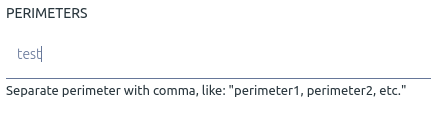
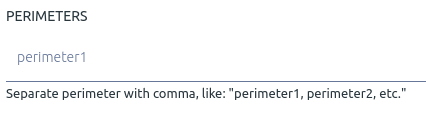
publish: Merge pull request #10 from adback-anti-adblock-solution/patch-victor-10
generated from commit 0041046b2757b99a261cec2f2a4e342b2754604b

Changed region(s): [[0.0, 0.6903, 1.0, 0.8761], [0.0, 0.0531, 0.2136, 0.1858], [0.0305, 0.3982, 0.2136, 0.5575]]

diff --git a/index.html b/index.html
@@ -294,11 +294,11 @@
 <span class="kn">import</span> <span class="nn">requests</span>
 
 <span class="s">'''here we use redis to cache api requests'''</span>
-<span class="n">r_server</span> <span class="o">=</span> <span class="n">redis</span><span class="o">.</span><span class="n">Redis</span><span class="p">(</span><span class="s">'host'</span><span class="p">)</span>
+<span class="n">r_server</span> <span class="o">=</span> <span class="n">redis</span><span class="o">.</span><span class="n">Redis</span><span class="p">(</span><span class="s">'host'</span><span class="p">,</span> <span class="s">'port'</span><span class="p">)</span>
 <span class="n">script_elements</span> <span class="o">=</span> <span class="n">requests</span><span class="o">.</span><span class="n">get</span><span class="p">(</span><span class="s">'https://adback.co/api/script/me?access_token=[token]'</span><span class="p">)</span><span class="o">.</span><span class="n">json</span><span class="p">()</span>
 <span class="k">for</span> <span class="p">(</span><span class="n">key</span><span class="p">,</span> <span class="n">value</span><span class="p">)</span> <span class="ow">in</span> <span class="n">script_elements</span><span class="o">.</span><span class="n">items</span><span class="p">():</span>
-    <span class="n">r_server</span><span class="o">.</span><span class="nb">set</span><span class="p">(</span><span class="s">'script_element'</span><span class="p">,</span> <span class="n">key</span><span class="p">,</span> <span class="n">value</span><span class="p">)</span>
-<span class="n">r_server</span><span class="o">.</span><span class="n">expire</span><span class="p">(</span><span class="s">'scriptElement'</span><span class="p">,</span> <span class="mi">60</span> <span class="o">*</span> <span class="mi">60</span> <span class="o">*</span> <span class="mi">6</span><span class="p">)</span>
+    <span class="n">r_server</span><span class="o">.</span><span class="n">hset</span><span class="p">(</span><span class="s">'script_element'</span><span class="p">,</span> <span class="n">key</span><span class="p">,</span> <span class="n">value</span><span class="o">.</span><span class="n">encode</span><span class="p">(</span><span class="s">"utf8"</span><span class="p">))</span>
+<span class="n">r_server</span><span class="o">.</span><span class="n">expire</span><span class="p">(</span><span class="s">'script_element'</span><span class="p">,</span> <span class="mi">60</span> <span class="o">*</span> <span class="mi">60</span> <span class="o">*</span> <span class="mi">6</span><span class="p">)</span>
 </code></pre><pre class="highlight java tab-java"><code>
 </code></pre><pre class="highlight ruby tab-ruby"><code><span class="nb">require</span> <span class="s2">"redis"</span>
 <span class="nb">require</span> <span class="s2">"json"</span>
@@ -375,7 +375,7 @@ If API doesn't return all script names or URL, please check your configuration <
 <span class="cp">&lt;?php</span>
 <span class="cm">/* here we use redis to cache api requests */</span>
 <span class="nv">$cache</span> <span class="o">=</span> <span class="k">new</span> <span class="nx">Redis</span><span class="p">();</span>
-<span class="nv">$cache</span><span class="o">-&gt;</span><span class="na">connect</span><span class="p">(</span><span class="s1">'host'</span><span class="p">);</span>
+<span class="nv">$cache</span><span class="o">-&gt;</span><span class="na">connect</span><span class="p">(</span><span class="s1">'host'</span><span class="p">,</span> <span class="s1">'port'</span><span class="p">);</span>
 
 <span class="nv">$analyticsScriptCode</span> <span class="o">=</span> <span class="s1">''</span><span class="p">;</span>
 <span class="k">if</span> <span class="p">(</span><span class="nv">$cache</span><span class="o">-&gt;</span><span class="na">has</span><span class="p">(</span><span class="s1">'scriptElement'</span><span class="p">))</span> <span class="p">{</span>
@@ -398,7 +398,7 @@ EOS;
 <span class="kn">import</span> <span class="nn">requests</span>
 
 <span class="s">'''here we use redis to cache api requests'''</span>
-<span class="n">r_server</span> <span class="o">=</span> <span class="n">redis</span><span class="o">.</span><span class="n">Redis</span><span class="p">(</span><span class="s">'host'</span><span class="p">)</span>
+<span class="n">r_server</span> <span class="o">=</span> <span class="n">redis</span><span class="o">.</span><span class="n">Redis</span><span class="p">(</span><span class="s">'host'</span><span class="p">,</span> <span class="s">'port'</span><span class="p">)</span>
 <span class="n">analytics_script_code</span> <span class="o">=</span> <span class="s">''</span>
 <span class="k">if</span> <span class="n">r_server</span><span class="o">.</span><span class="n">exists</span><span class="p">(</span><span class="s">'script_element'</span><span class="p">):</span>
     <span class="n">script_elements</span> <span class="o">=</span> <span class="n">r_server</span><span class="o">.</span><span class="n">hgetall</span><span class="p">(</span><span class="s">'script_element'</span><span class="p">)</span>
@@ -410,11 +410,11 @@ EOS;
     s.src=a;s.async=1;
     t=d.getElementsByTagName('script')[0];
     t.parentNode.insertBefore(s,t);
-    })(</span><span class="se">\"</span><span class="s">https://${analytics_domain}/${analytics_script}.js</span><span class="se">\"</span><span class="s">, document);
-    """</span>
+    })(</span><span class="se">\"</span><span class="s">https://</span><span class="si">%</span><span class="s">s/</span><span class="si">%</span><span class="s">s.js</span><span class="se">\"</span><span class="s">, document);
+    """</span> <span class="o">%</span> <span class="p">(</span><span class="n">analytics_domain</span><span class="p">,</span> <span class="n">analytics_script</span><span class="p">)</span>
 
-<span class="c"># display tag</span>
-<span class="k">print</span> <span class="s">"&lt;script&gt;${analytics_script_code}&lt;/script&gt;"</span>
+<span class="s">''' display tag '''</span>
+<span class="k">print</span> <span class="s">"&lt;script&gt;</span><span class="si">%</span><span class="s">s&lt;/script&gt;"</span> <span class="o">%</span> <span class="n">analytics_script_code</span>
 </code></pre><pre class="highlight java tab-java"><code></code></pre><pre class="highlight ruby tab-ruby"><code><span class="nb">require</span> <span class="s2">"redis"</span>
 <span class="nb">require</span> <span class="s2">"json"</span>
 <span class="nb">require</span> <span class="s1">'open-uri'</span>
@@ -438,7 +438,7 @@ EOS;
 
 <span class="c1"># display tag</span>
 <span class="nb">puts</span> <span class="s2">"&lt;script&gt;</span><span class="si">#{</span><span class="n">analytics_script_code</span><span class="si">}</span><span class="s2">&lt;/script&gt;"</span>
-</code></pre><pre class="highlight shell tab-shell"><code><span class="c"># bash script to api consumption</span>
+</code></pre><pre class="highlight shell tab-shell"><code><span class="c"># bash script to test api consumption</span>
 <span class="gp">$ </span>wget https://raw.githubusercontent.com/adback-anti-adblock-solution/adback-bash-refresh/master/adback-refresh-tags
 
 <span class="gp">$ </span>chmod +x adback-refresh-tags
@@ -462,7 +462,7 @@ EOS;
 
 <span class="cm">/* here we use redis to cache api requests */</span>
 <span class="nv">$cache</span> <span class="o">=</span> <span class="k">new</span> <span class="nx">Redis</span><span class="p">();</span>
-<span class="nv">$cache</span><span class="o">-&gt;</span><span class="na">connect</span><span class="p">(</span><span class="s1">'host'</span><span class="p">);</span>
+<span class="nv">$cache</span><span class="o">-&gt;</span><span class="na">connect</span><span class="p">(</span><span class="s1">'host'</span><span class="p">,</span> <span class="s1">'port'</span><span class="p">);</span>
 
 <span class="nv">$messageCode</span> <span class="o">=</span> <span class="s1">''</span><span class="p">;</span>
 <span class="k">if</span> <span class="p">(</span><span class="nv">$cache</span><span class="o">-&gt;</span><span class="na">has</span><span class="p">(</span><span class="s1">'scriptElement'</span><span class="p">))</span> <span class="p">{</span>
@@ -484,34 +484,37 @@ EOS;
 <span class="k">echo</span> <span class="s2">"&lt;script&gt;</span><span class="nv">$messageCode</span><span class="s2">&lt;/script&gt;"</span><span class="p">;</span>
 
 <span class="cm">/* script you can set to display message on certain pages of your site */</span>
-<span class="k">echo</span> <span class="s2">"&lt;script&gt;var adback = adback || {}; adback.perimeter = 'test';&lt;/script&gt;"</span><span class="p">;</span>
+<span class="k">echo</span> <span class="s2">"&lt;script&gt;var adback = adback || {}; adback.perimeter = 'perimeter1';&lt;/script&gt;"</span><span class="p">;</span>
 </code></pre><pre class="highlight python tab-python"><code><span class="kn">import</span> <span class="nn">redis</span>
 <span class="kn">import</span> <span class="nn">requests</span>
 
 <span class="s">'''here we use redis to cache api requests'''</span>
-<span class="n">r_server</span> <span class="o">=</span> <span class="n">redis</span><span class="o">.</span><span class="n">Redis</span><span class="p">(</span><span class="s">'host'</span><span class="p">)</span>
-<span class="n">analytics_script_code</span> <span class="o">=</span> <span class="s">''</span>
+<span class="n">r_server</span> <span class="o">=</span> <span class="n">redis</span><span class="o">.</span><span class="n">Redis</span><span class="p">(</span><span class="s">'host'</span><span class="p">,</span> <span class="s">'port'</span><span class="p">)</span>
+<span class="n">message_code</span> <span class="o">=</span> <span class="s">''</span>
 <span class="k">if</span> <span class="n">r_server</span><span class="o">.</span><span class="n">exists</span><span class="p">(</span><span class="s">'script_element'</span><span class="p">):</span>
     <span class="n">script_elements</span> <span class="o">=</span> <span class="n">r_server</span><span class="o">.</span><span class="n">hgetall</span><span class="p">(</span><span class="s">'script_element'</span><span class="p">)</span>
-    <span class="n">message_domain</span> <span class="o">=</span> <span class="n">script_elements</span><span class="p">[</span><span class="s">'message_domain'</span><span class="p">];</span>
-    <span class="n">message_script</span> <span class="o">=</span> <span class="n">script_elements</span><span class="p">[</span><span class="s">'message_script'</span><span class="p">];</span>
+    <span class="n">message_domain</span> <span class="o">=</span> <span class="n">script_elements</span><span class="p">[</span><span class="s">'message_domain'</span><span class="p">]</span>
+    <span class="n">message_script</span> <span class="o">=</span> <span class="n">script_elements</span><span class="p">[</span><span class="s">'message_script'</span><span class="p">]</span>
 
     <span class="n">message_code</span> <span class="o">=</span> <span class="s">"""
     (function (a,d){var s,t;s=d.createElement('script');
     s.src=a;s.async=1;
     t=d.getElementsByTagName('script')[0];
     t.parentNode.insertBefore(s,t);
-    })(</span><span class="se">\"</span><span class="s">https://${message_domain}/${message_script}.js</span><span class="se">\"</span><span class="s">, document);
-    """</span>
+    })(</span><span class="se">\"</span><span class="s">https://</span><span class="si">%</span><span class="s">s/</span><span class="si">%</span><span class="s">s.js</span><span class="se">\"</span><span class="s">, document);
+    """</span> <span class="o">%</span> <span class="p">(</span><span class="n">message_domain</span><span class="p">,</span> <span class="n">message_script</span><span class="p">)</span>
 
-<span class="c"># display tag</span>
-<span class="k">print</span> <span class="s">"&lt;script&gt;${message_code}&lt;/script&gt;"</span>
+<span class="s">''' display tag '''</span>
+<span class="k">print</span> <span class="s">"&lt;script&gt;</span><span class="si">%</span><span class="s">s&lt;/script&gt;"</span> <span class="o">%</span> <span class="n">message_code</span>
+
+<span class="s">''' script you can set to display message on certain pages of your site '''</span>
+<span class="k">print</span> <span class="s">"&lt;script&gt;var adback = adback || {}; adback.perimeter = 'perimeter1';&lt;/script&gt;"</span>
 </code></pre><pre class="highlight java tab-java"><code></code></pre><pre class="highlight ruby tab-ruby"><code><span class="nb">require</span> <span class="s2">"redis"</span>
 <span class="nb">require</span> <span class="s2">"json"</span>
 <span class="nb">require</span> <span class="s1">'open-uri'</span>
 
 <span class="c1"># here we use redis to cache api requests</span>
-<span class="n">cache</span> <span class="o">=</span> <span class="no">Redis</span><span class="p">.</span><span class="nf">new</span><span class="p">(</span><span class="ss">:host</span> <span class="o">=&gt;</span> <span class="s2">"HOST"</span><span class="p">)</span>
+<span class="n">cache</span> <span class="o">=</span> <span class="no">Redis</span><span class="p">.</span><span class="nf">new</span><span class="p">(</span><span class="ss">:host</span> <span class="o">=&gt;</span> <span class="s1">'host'</span><span class="p">)</span>
 <span class="n">message_code</span> <span class="o">=</span> <span class="s1">''</span><span class="p">;</span>
 <span class="k">if</span> <span class="n">cache</span><span class="p">.</span><span class="nf">exists</span><span class="p">(</span><span class="s1">'script_element'</span><span class="p">)</span>
   <span class="n">script_elements</span> <span class="o">=</span> <span class="n">cache</span><span class="p">.</span><span class="nf">hgetall</span><span class="p">(</span><span class="s1">'script_element'</span><span class="p">);</span>
@@ -532,8 +535,8 @@ EOS;
 <span class="nb">puts</span> <span class="s2">"&lt;script&gt;</span><span class="si">#{</span><span class="n">message_code</span><span class="si">}</span><span class="s2">&lt;/script&gt;"</span>
 
 <span class="c1"># script you can set to display message on certain pages of your site</span>
-<span class="nb">puts</span> <span class="s2">"&lt;script&gt;var adback = adback || {}; adback.perimeter = 'test';&lt;/script&gt;"</span>
-</code></pre><pre class="highlight shell tab-shell"><code><span class="c"># bash script to api consumption</span>
+<span class="nb">puts</span> <span class="s2">"&lt;script&gt;var adback = adback || {}; adback.perimeter = 'perimeter1';&lt;/script&gt;"</span>
+</code></pre><pre class="highlight shell tab-shell"><code><span class="c"># bash script to test api consumption</span>
 <span class="gp">$ </span>wget https://raw.githubusercontent.com/adback-anti-adblock-solution/adback-bash-refresh/master/adback-refresh-tags
 
 <span class="gp">$ </span>chmod +x adback-refresh-tags
@@ -603,7 +606,7 @@ you can see a preview of all your messages and publish / unpublish it</aside>
 
 <span class="cm">/* here we use redis to cache api requests */</span>
 <span class="nv">$cache</span> <span class="o">=</span> <span class="k">new</span> <span class="nx">Redis</span><span class="p">();</span>
-<span class="nv">$cache</span><span class="o">-&gt;</span><span class="na">connect</span><span class="p">(</span><span class="s1">'host'</span><span class="p">);</span>
+<span class="nv">$cache</span><span class="o">-&gt;</span><span class="na">connect</span><span class="p">(</span><span class="s1">'host'</span><span class="p">,</span> <span class="s1">'port'</span><span class="p">);</span>
 
 <span class="nv">$autopromoBannerCode</span> <span class="o">=</span> <span class="s1">''</span><span class="p">;</span>
 <span class="k">if</span> <span class="p">(</span><span class="nv">$cache</span><span class="o">-&gt;</span><span class="na">has</span><span class="p">(</span><span class="s1">'scriptElement'</span><span class="p">))</span> <span class="p">{</span>
@@ -621,10 +624,10 @@ EOS;
 </span>    <span class="p">}</span>
 <span class="p">}</span>
 
-<span class="cm">/* add div where you want to display your banner header_728x90 */</span>
+<span class="cm">/* add div where you want to display your banner with placement 'header_728x90' */</span>
 <span class="k">echo</span> <span class="s2">"&lt;div data-tag='header_728x90'&gt;&lt;/div&gt;"</span><span class="p">;</span>
 
-<span class="cm">/* add div where you want to display your banner side_300x250_actu */</span>
+<span class="cm">/* add div where you want to display your banner with placement 'side_300x250_actu' */</span>
 <span class="k">echo</span> <span class="s2">"&lt;div data-tag='side_300x250_actu'&gt;&lt;/div&gt;"</span><span class="p">;</span>
 
 <span class="cm">/* display tag */</span>
@@ -633,28 +636,29 @@ EOS;
 <span class="kn">import</span> <span class="nn">requests</span>
 
 <span class="s">'''here we use redis to cache api requests'''</span>
-<span class="n">r_server</span> <span class="o">=</span> <span class="n">redis</span><span class="o">.</span><span class="n">Redis</span><span class="p">(</span><span class="s">'host'</span><span class="p">)</span>
+<span class="n">r_server</span> <span class="o">=</span> <span class="n">redis</span><span class="o">.</span><span class="n">Redis</span><span class="p">(</span><span class="s">'host'</span><span class="p">,</span> <span class="s">'port'</span><span class="p">)</span>
 <span class="n">autopromo_banner_code</span> <span class="o">=</span> <span class="s">''</span>
 <span class="k">if</span> <span class="n">r_server</span><span class="o">.</span><span class="n">exists</span><span class="p">(</span><span class="s">'script_element'</span><span class="p">):</span>
     <span class="n">script_elements</span> <span class="o">=</span> <span class="n">r_server</span><span class="o">.</span><span class="n">hgetall</span><span class="p">(</span><span class="s">'script_element'</span><span class="p">)</span>
-    <span class="n">autopromo_banner_domain</span> <span class="o">=</span> <span class="n">script_elements</span><span class="p">[</span><span class="s">'autopromo_banner_domain'</span><span class="p">];</span>
-    <span class="n">autopromo_banner_script</span> <span class="o">=</span> <span class="n">script_elements</span><span class="p">[</span><span class="s">'autopromo_banner_script'</span><span class="p">];</span>
+    <span class="n">autopromo_banner_domain</span> <span class="o">=</span> <span class="n">script_elements</span><span class="p">[</span><span class="s">'autopromo_banner_domain'</span><span class="p">]</span>
+    <span class="n">autopromo_banner_script</span> <span class="o">=</span> <span class="n">script_elements</span><span class="p">[</span><span class="s">'autopromo_banner_script'</span><span class="p">]</span>
+
     <span class="n">autopromo_banner_code</span> <span class="o">=</span> <span class="s">"""
     (function (a,d){var s,t;s=d.createElement('script');
     s.src=a;s.async=1;
     t=d.getElementsByTagName('script')[0];
     t.parentNode.insertBefore(s,t);
-    })(</span><span class="se">\"</span><span class="s">https://${autopromo_banner_domain}/${autopromo_banner_script}.js</span><span class="se">\"</span><span class="s">, document);
-    """</span>
+    })(</span><span class="se">\"</span><span class="s">https://</span><span class="si">%</span><span class="s">s/</span><span class="si">%</span><span class="s">s.js</span><span class="se">\"</span><span class="s">, document);
+    """</span> <span class="o">%</span> <span class="p">(</span><span class="n">autopromo_banner_domain</span><span class="p">,</span> <span class="n">autopromo_banner_script</span><span class="p">)</span>
 
-<span class="s">'''add div where you want to display your banner header_728x90'''</span>
+<span class="s">'''add div where you want to display your banner with placement 'header_728x90' '''</span>
 <span class="k">print</span> <span class="s">"&lt;div data-tag='header_728x90'&gt;&lt;/div&gt;"</span>
 
-<span class="s">'''add div where you want to display your banner side_300x250_actu'''</span>
+<span class="s">'''add div where you want to display your banner with placement 'side_300x250_actu' '''</span>
 <span class="k">print</span> <span class="s">"&lt;div data-tag='side_300x250_actu'&gt;&lt;/div&gt;"</span>
 
 <span class="s">'''display tag'''</span>
-<span class="k">print</span> <span class="s">"&lt;script&gt;${autopromo_banner_code}&lt;/script&gt;"</span>
+<span class="k">print</span> <span class="s">"&lt;script&gt;</span><span class="si">%</span><span class="s">s&lt;/script&gt;"</span> <span class="o">%</span> <span class="n">autopromo_banner_code</span>
 </code></pre><pre class="highlight java tab-java"><code></code></pre><pre class="highlight ruby tab-ruby"><code><span class="nb">require</span> <span class="s2">"redis"</span>
 <span class="nb">require</span> <span class="s2">"json"</span>
 <span class="nb">require</span> <span class="s1">'open-uri'</span>
@@ -677,25 +681,25 @@ EOS;
   <span class="k">end</span>
 <span class="k">end</span>
 
-<span class="c1"># add div where you want to display your banner header_728x90</span>
+<span class="c1"># add div where you want to display your banner with placement 'header_728x90'</span>
 <span class="nb">puts</span> <span class="s2">"&lt;div data-tag='header_728x90'&gt;&lt;/div&gt;"</span>
 
-<span class="c1"># add div where you want to display your banner side_300x250_actu</span>
+<span class="c1"># add div where you want to display your banner with placement 'side_300x250_actu'</span>
 <span class="nb">puts</span> <span class="s2">"&lt;div data-tag='side_300x250_actu'&gt;&lt;/div&gt;"</span>
 
 <span class="c1"># display tag</span>
 <span class="nb">puts</span> <span class="s2">"&lt;script&gt;</span><span class="si">#{</span><span class="n">autopromo_banner_code</span><span class="si">}</span><span class="s2">&lt;/script&gt;"</span>
-</code></pre><pre class="highlight shell tab-shell"><code><span class="c"># bash script to api consumption</span>
+</code></pre><pre class="highlight shell tab-shell"><code><span class="c"># bash script to test api consumption</span>
 <span class="gp">$ </span>wget https://raw.githubusercontent.com/adback-anti-adblock-solution/adback-bash-refresh/master/adback-refresh-tags
 
 <span class="gp">$ </span>chmod +x adback-refresh-tags
 
 <span class="c"># display autopromo banner tag with option -b and -html</span>
 <span class="gp">$ </span>./adback-refresh-tags <span class="s2">"token"</span> -b -html
-</code></pre><pre class="highlight twig tab-twig"><code><span class="c">&lt;!-- add div where you want to display your banner header_728x90 --&gt;</span>
+</code></pre><pre class="highlight twig tab-twig"><code><span class="c">&lt;!-- add div where you want to display your banner with placement 'header_728x90' --&gt;</span>
 <span class="nt">&lt;div</span> <span class="na">data-tag=</span><span class="s">'header_728x90'</span><span class="nt">&gt;&lt;/div&gt;</span>
 
-<span class="c">&lt;!-- add div where you want to display your banner side_300x250_actu --&gt;</span>
+<span class="c">&lt;!-- add div where you want to display your banner with placement 'side_300x250_actu' --&gt;</span>
 <span class="nt">&lt;div</span> <span class="na">data-tag=</span><span class="s">'side_300x250_actu'</span><span class="nt">&gt;&lt;/div&gt;</span>
 
 <span class="cp">{{</span> <span class="nv">adback_generate_autopromo_banner_script</span><span class="p">()</span> <span class="cp">}}</span>
@@ -707,7 +711,7 @@ EOS;
 <ul>
 <li><p>connect to your cache provider (here Redis)</p></li>
 <li><p>get script names and URL</p></li>
-<li><p>generate and display tag with one perimeter / banner</p></li>
+<li><p>generate and display tag with one placement / banner</p></li>
 </ul>
 <h3 id='script-parameters-2'>Script Parameters:</h3>
 <table><thead>
@@ -718,23 +722,23 @@ EOS;
 </tr>
 </thead><tbody>
 <tr>
-<td>data-tag=&#39;&#39;</td>
+<td>placement</td>
 <td>Yes</td>
-<td>Variable you must set to display one banner, data-tag takes one &quot;perimeter&quot; and can be configured <a href="https://www.adback.co/en/autopromo/banners">here</a></td>
+<td>Variable you must set to display one banner, data-tag takes one placement and can be configured <a href="https://www.adback.co/en/autopromo/banners">here</a></td>
 </tr>
 </tbody></table>
 
 <p>Back office configuration example:</p>
 
-<p><img src="images/autopromo_perimeter.png" alt="Autopromo perimeter" /></p>
-<h3 id='data-tag-naming'>data-tag naming:</h3>
-<p>You should name your data-tag like back office example, location _ dimension _ campaign promo name,</p>
+<p><img src="images/autopromo_placement.png" alt="Autopromo perimeter" /></p>
+<h3 id='placement-naming'>placement naming:</h3>
+<p>You should name your placement like back office example, location _ dimension _ campaign promo name,</p>
 
 <p><code>header_728x90  ou  side_300x250_actu</code></p>
 
 <p>Make sure this names match the back office configuration.</p>
 
-<aside class="notice">After tag installation, you must create new banner <a href="https://www.adback.co/en/autopromo/banners">here</a> for every data-tag that you integrate before.</aside>
+<aside class="notice">After tag installation, you must create new banner <a href="https://www.adback.co/en/autopromo/banners">here</a> for every placement that you integrate before.</aside>
 <h2 id='5-product-flow-script'>5) Product flow script</h2>
 <blockquote>
 <p>sample script:</p>
@@ -767,22 +771,29 @@ EOS;
 <span class="kn">import</span> <span class="nn">requests</span>
 
 <span class="s">'''here we use redis to cache api requests'''</span>
-<span class="n">r_server</span> <span class="o">=</span> <span class="n">redis</span><span class="o">.</span><span class="n">Redis</span><span class="p">(</span><span class="s">'host'</span><span class="p">)</span>
+<span class="n">r_server</span> <span class="o">=</span> <span class="n">redis</span><span class="o">.</span><span class="n">Redis</span><span class="p">(</span><span class="s">'host'</span><span class="p">,</span> <span class="s">'port'</span><span class="p">)</span>
 <span class="n">product_flow_code</span> <span class="o">=</span> <span class="s">''</span>
 <span class="k">if</span> <span class="n">r_server</span><span class="o">.</span><span class="n">exists</span><span class="p">(</span><span class="s">'script_element'</span><span class="p">):</span>
     <span class="n">script_elements</span> <span class="o">=</span> <span class="n">r_server</span><span class="o">.</span><span class="n">hgetall</span><span class="p">(</span><span class="s">'script_element'</span><span class="p">)</span>
-    <span class="n">product_domain</span> <span class="o">=</span> <span class="n">script_elements</span><span class="p">[</span><span class="s">'product_domain'</span><span class="p">];</span>
-    <span class="n">product_script</span> <span class="o">=</span> <span class="n">script_elements</span><span class="p">[</span><span class="s">'product_script'</span><span class="p">];</span>
+    <span class="n">product_domain</span> <span class="o">=</span> <span class="n">script_elements</span><span class="p">[</span><span class="s">'product_domain'</span><span class="p">]</span>
+    <span class="n">product_script</span> <span class="o">=</span> <span class="n">script_elements</span><span class="p">[</span><span class="s">'product_script'</span><span class="p">]</span>
+
     <span class="n">product_flow_code</span> <span class="o">=</span> <span class="s">"""
     (function (a,d){var s,t;s=d.createElement('script');
     s.src=a;s.async=1;
     t=d.getElementsByTagName('script')[0];
     t.parentNode.insertBefore(s,t);
-    })(</span><span class="se">\"</span><span class="s">https://${product_domain}/${product_script}.js</span><span class="se">\"</span><span class="s">, document);
-    """</span>
+    })(</span><span class="se">\"</span><span class="s">https://</span><span class="si">%</span><span class="s">s/</span><span class="si">%</span><span class="s">s.js</span><span class="se">\"</span><span class="s">, document);
+    """</span> <span class="o">%</span> <span class="p">(</span><span class="n">product_domain</span><span class="p">,</span> <span class="n">product_script</span><span class="p">)</span>
+
+<span class="s">'''add div where you want to display your banner with placement header_728x90'''</span>
+<span class="k">print</span> <span class="s">"&lt;div data-tag='header_728x90'&gt;&lt;/div&gt;"</span>
+
+<span class="s">'''add div where you want to display your banner with placement side_300x250_actu'''</span>
+<span class="k">print</span> <span class="s">"&lt;div data-tag='side_300x250_actu'&gt;&lt;/div&gt;"</span>
 
 <span class="s">'''display tag'''</span>
-<span class="k">print</span> <span class="s">"&lt;script&gt;${product_flow_code}&lt;/script&gt;"</span>
+<span class="k">print</span> <span class="s">"&lt;script&gt;</span><span class="si">%</span><span class="s">s&lt;/script&gt;"</span> <span class="o">%</span> <span class="n">product_flow_code</span>
 </code></pre><pre class="highlight java tab-java"><code></code></pre><pre class="highlight ruby tab-ruby"><code><span class="nb">require</span> <span class="s2">"redis"</span>
 <span class="nb">require</span> <span class="s2">"json"</span>
 <span class="nb">require</span> <span class="s1">'open-uri'</span>
@@ -808,7 +819,7 @@ EOS;
 <span class="c1"># display tag</span>
 <span class="nb">puts</span> <span class="s2">"&lt;script&gt;</span><span class="si">#{</span><span class="n">product_flow_code</span><span class="si">}</span><span class="s2">&lt;/script&gt;"</span>
 
-</code></pre><pre class="highlight shell tab-shell"><code><span class="c"># bash script to api consumption</span>
+</code></pre><pre class="highlight shell tab-shell"><code><span class="c"># bash script to test api consumption</span>
 <span class="gp">$ </span>wget https://raw.githubusercontent.com/adback-anti-adblock-solution/adback-bash-refresh/master/adback-refresh-tags
 
 <span class="gp">$ </span>chmod +x adback-refresh-tags
